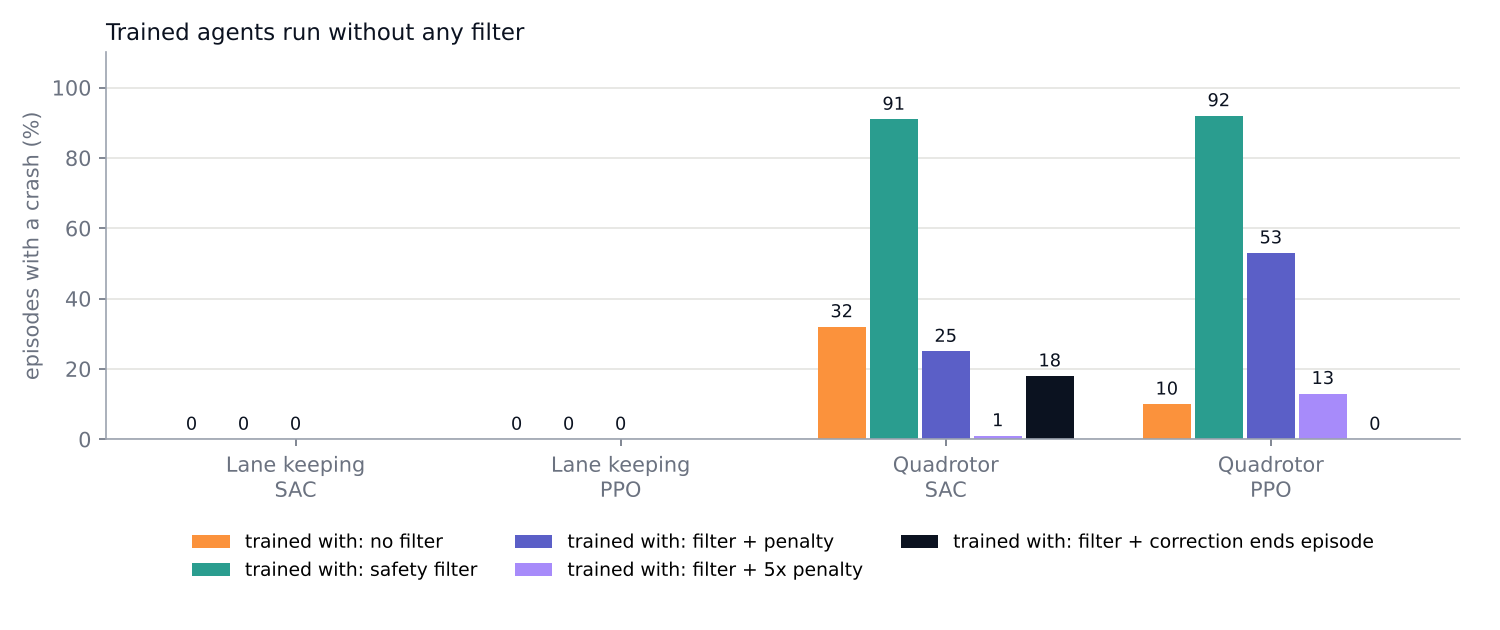
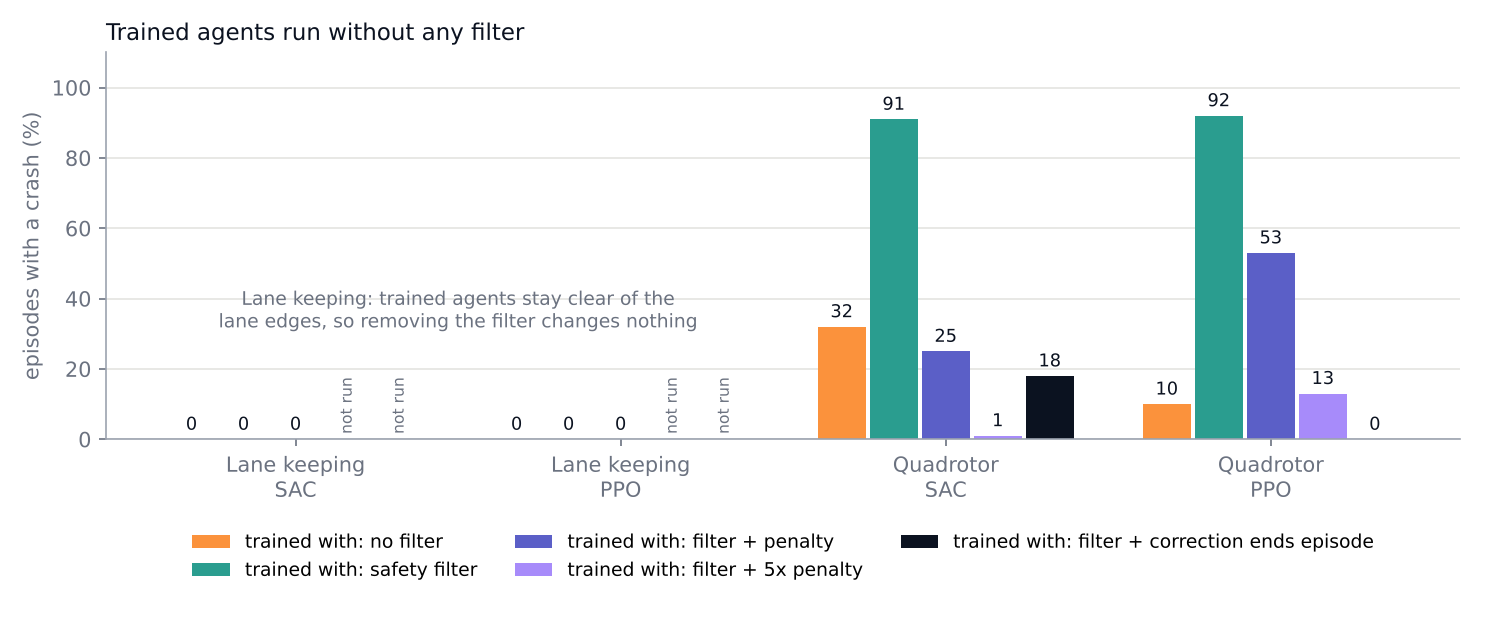
Reliance figure: mark the runs done on the quadrotor only, explain the lane-keeping zeros

Changed region(s): [[0.1533, 0.4524, 0.46, 0.5429]]

diff --git a/experiments/05_figures.py b/experiments/05_figures.py
@@ -86,6 +86,8 @@ def reliance(rl):
         for g, (b, a) in enumerate(groups):
             r = rl.get(f"{b}/{a}/{cond}")
             if r is None:
+                ax.text(g + (k - (len(conds) - 1) / 2) * w, 1.5, "not run", ha="center",
+                        va="bottom", rotation=90, color=MUTED, fontsize=7.5)
                 continue
             n = r["eval_crashes"] if cond == "none" else r["swap_crashes"]
             xs.append(g + (k - (len(conds) - 1) / 2) * w)
@@ -93,6 +95,13 @@ def reliance(rl):
         ax.bar(xs, vals, w * 0.92, color=color, label=f"trained with: {name}")
         for xi, v in zip(xs, vals, strict=True):
             ax.text(xi, v + 1.5, f"{v:.0f}", ha="center", va="bottom", color=INK, fontsize=8.5)
+    lane = [g for g, (b, _) in enumerate(groups) if b == "lane"]
+    if lane and all((rl.get(f"{groups[g][0]}/{groups[g][1]}/{c}") or {}).get(
+            "eval_crashes" if c == "none" else "swap_crashes", 0) == 0
+            for g in lane for c in conds):
+        ax.text(np.mean(lane), 30, "Lane keeping: trained agents stay clear of the\n"
+                "lane edges, so removing the filter changes nothing",
+                ha="center", va="bottom", color=MUTED, fontsize=9)
     ax.set_xticks(np.arange(len(groups)), [f"{BENCH[b]}\n{ALGO[a]}" for b, a in groups])
     ax.set_ylabel("episodes with a crash (%)")
     ax.set_ylim(0, 110)

diff --git a/README.md b/README.md
@@ -165,6 +165,10 @@ kinematics. 55 minutes from other days are held out.
 
   ![Crashes of trained agents when no filter is present](figures/reliance.png)
 
+  *On lane keeping, every trained agent stays clear of the lane edges, so removing the
+  filter changes nothing; the 5x-penalty and correction-ends-episode arms were run on the
+  quadrotor only.*
+
 - **The filter can change what is learned.** On lane keeping, PPO trained behind the
   filter ended 3 % below PPO trained without it (582 ± 14 against 600), although the
   filter never corrects the trained agent; with the penalty the gap disappears (600).
